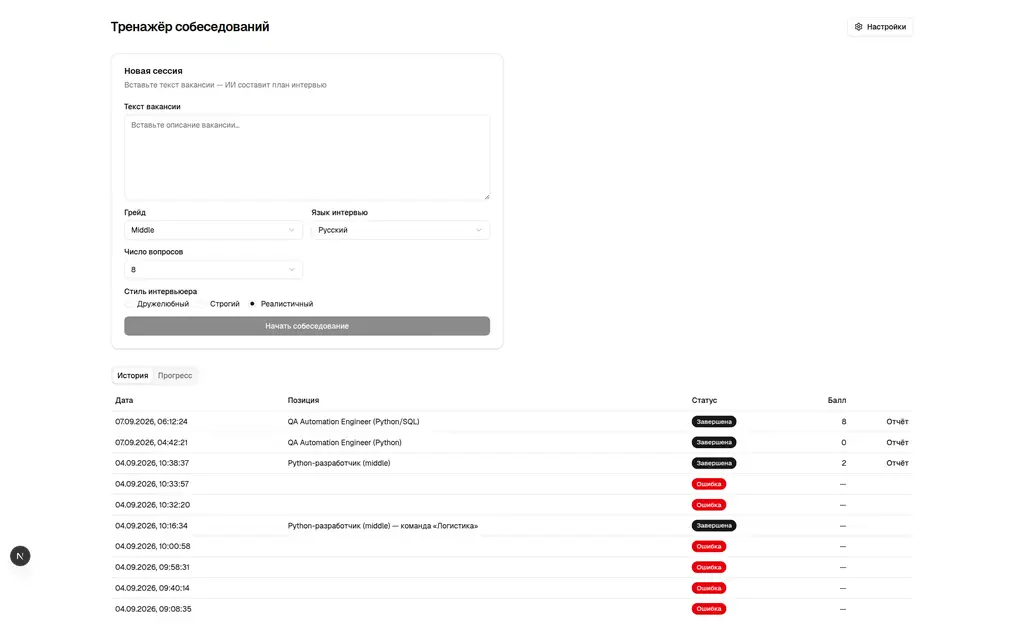
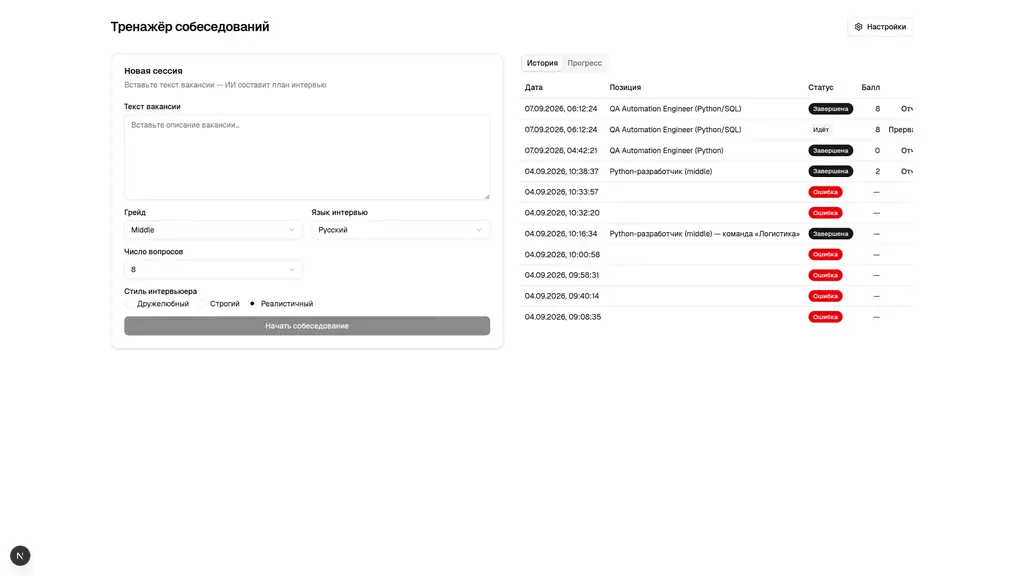
fix(T173): правки ревью — Сильные/Зоны на всю ширину, табы рядом с формой
- ReportView: обёртке Сильные/Зоны xl:col-span-2 вместо xl:grid-cols-1 —
  карточки снова side-by-side на всю ширину отчёта (пустой правой колонки нет).
- Главная: убран xl:col-span-2 у Tabs — История/Прогресс занимают правую
  колонку рядом с формой «Новая сессия» на xl+.
- Перегенерированы docs/screens/t173/report-1920.webp и home-1920.webp.

diff --git a/frontend/components/ReportView.tsx b/frontend/components/ReportView.tsx
@@ -144,7 +144,7 @@ export default function ReportView({ report }: { report: Report }) {
       )}
 
       {(report.strengths.length > 0 || report.weaknesses.length > 0) && (
-        <div className="grid gap-4 sm:grid-cols-2 xl:grid-cols-1">
+        <div className="grid gap-4 sm:grid-cols-2 xl:col-span-2">
           <Card>
             <CardHeader>
               <CardTitle>Сильные стороны</CardTitle>

diff --git a/frontend/app/page.tsx b/frontend/app/page.tsx
@@ -222,7 +222,7 @@ export default function HomePage() {
         </CardContent>
       </Card>
 
-      <Tabs defaultValue="history" className="xl:col-span-2">
+      <Tabs defaultValue="history">
         <TabsList className="w-fit">
           <TabsTrigger value="history">История</TabsTrigger>
           <TabsTrigger value="progress">Прогресс</TabsTrigger>
